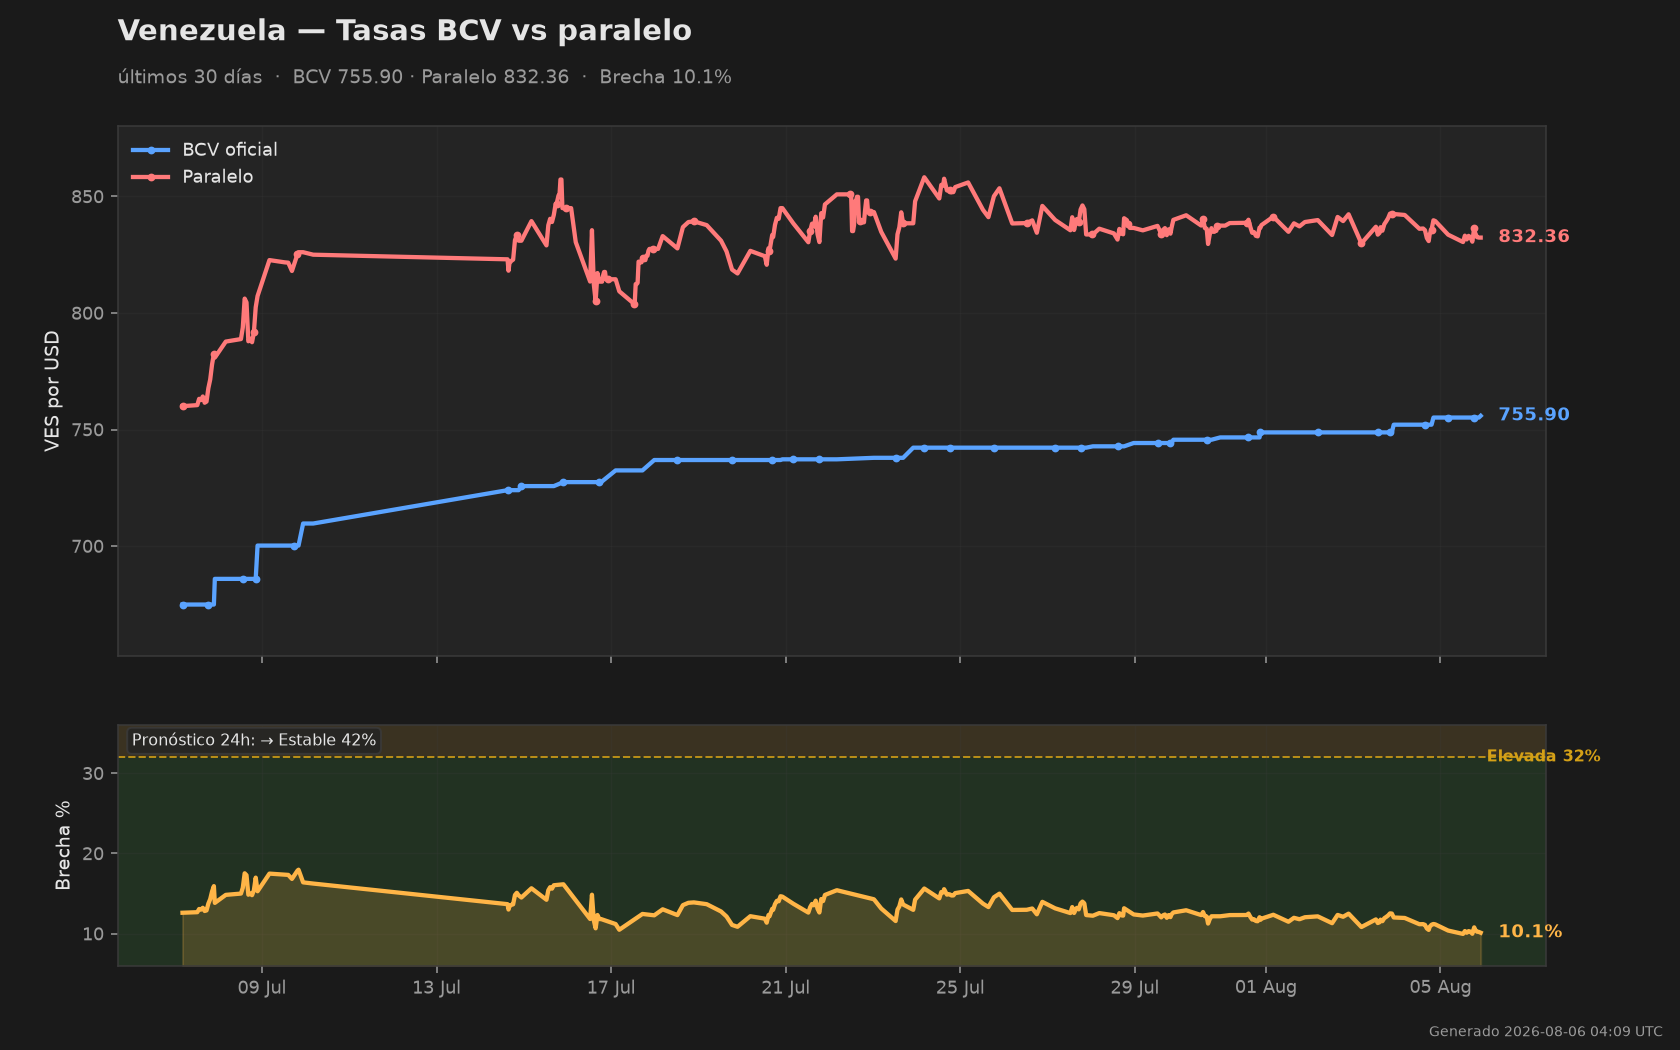
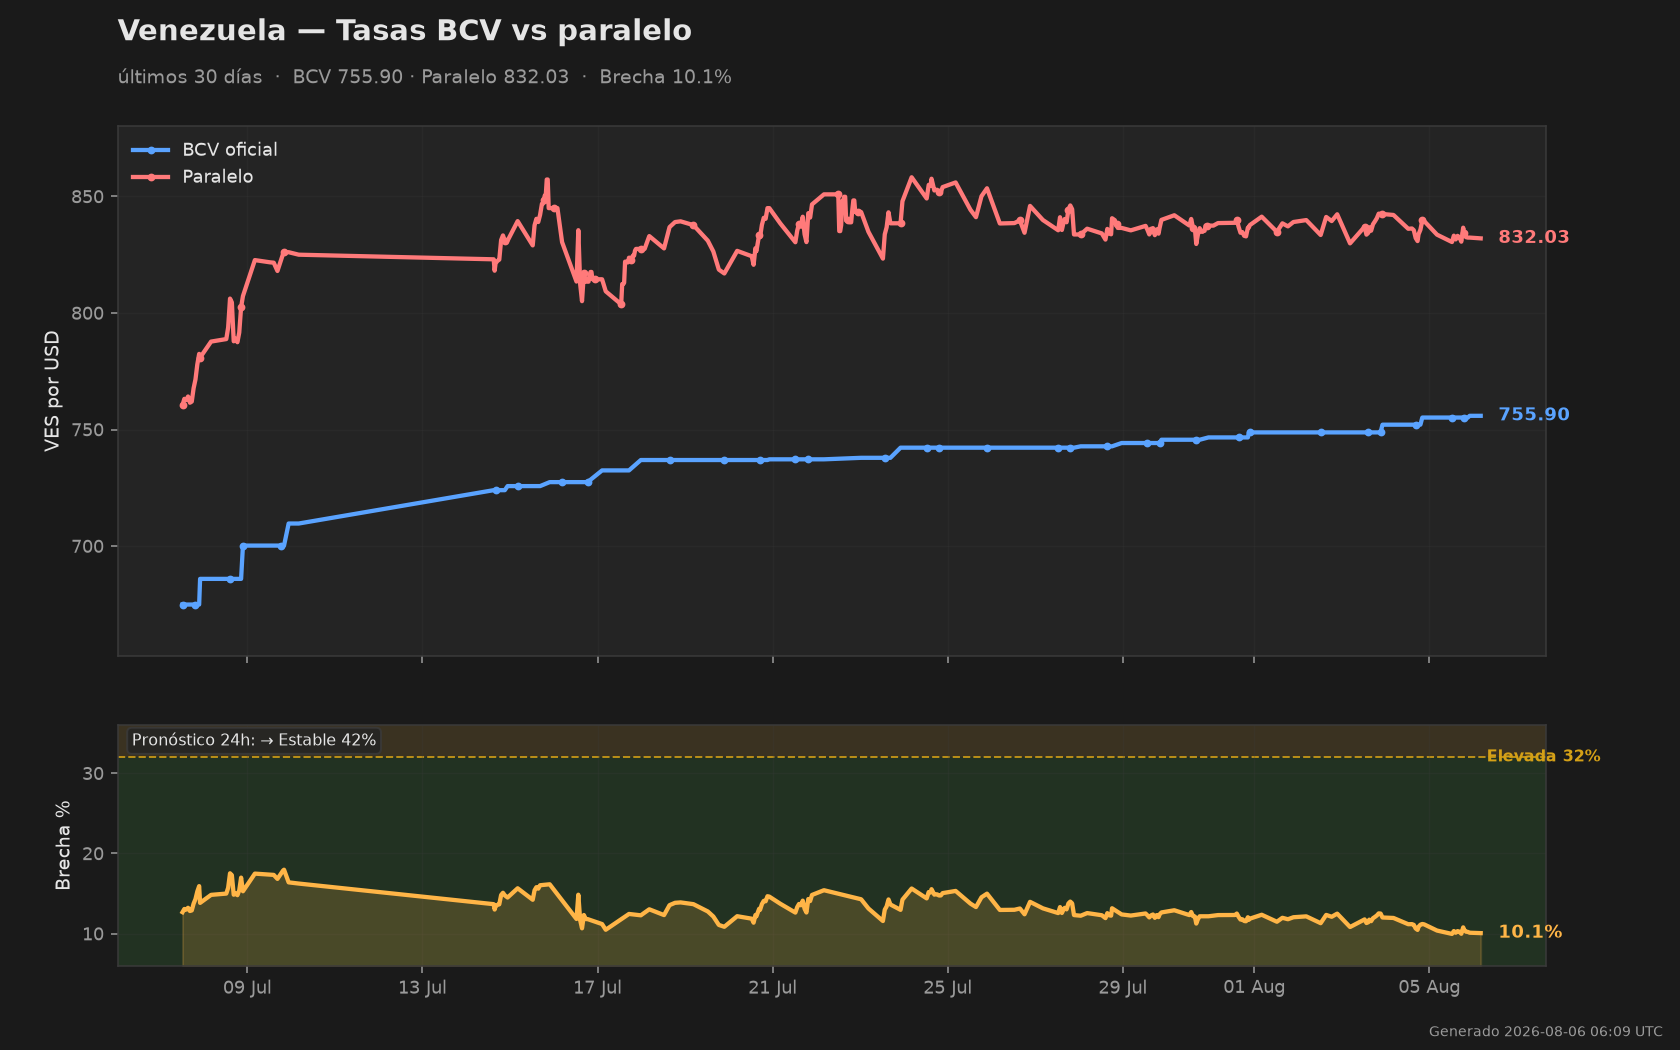
Dashboard update 2026-08-06 06:09 UTC

diff --git a/README.md b/README.md
@@ -11,11 +11,11 @@
 | Metric · Métrica | Value · Valor |
 |---|---|
 | BCV Oficial | **755.90** VES/USD |
-| Paralelo | **832.36** VES/USD |
+| Paralelo | **832.03** VES/USD |
 | Brecha · Spread | **10.1%** |
-| Binance P2P USDT/VES | **846.10** VES/USDT (+1.7% vs paralelo) |
+| Binance P2P USDT/VES | **845.44** VES/USDT (+1.6% vs paralelo) |
 | **Pronóstico 24h · 24h Forecast** | **→ Estable · Stable (57%)** |
-| Actualizado · Updated | 2026-08-05 22:07 UTC |
+| Actualizado · Updated | 2026-08-06 04:09 UTC |
 
 ![Venezuela BCV vs parallel rate — last 30 days](data/chart.png)
 
